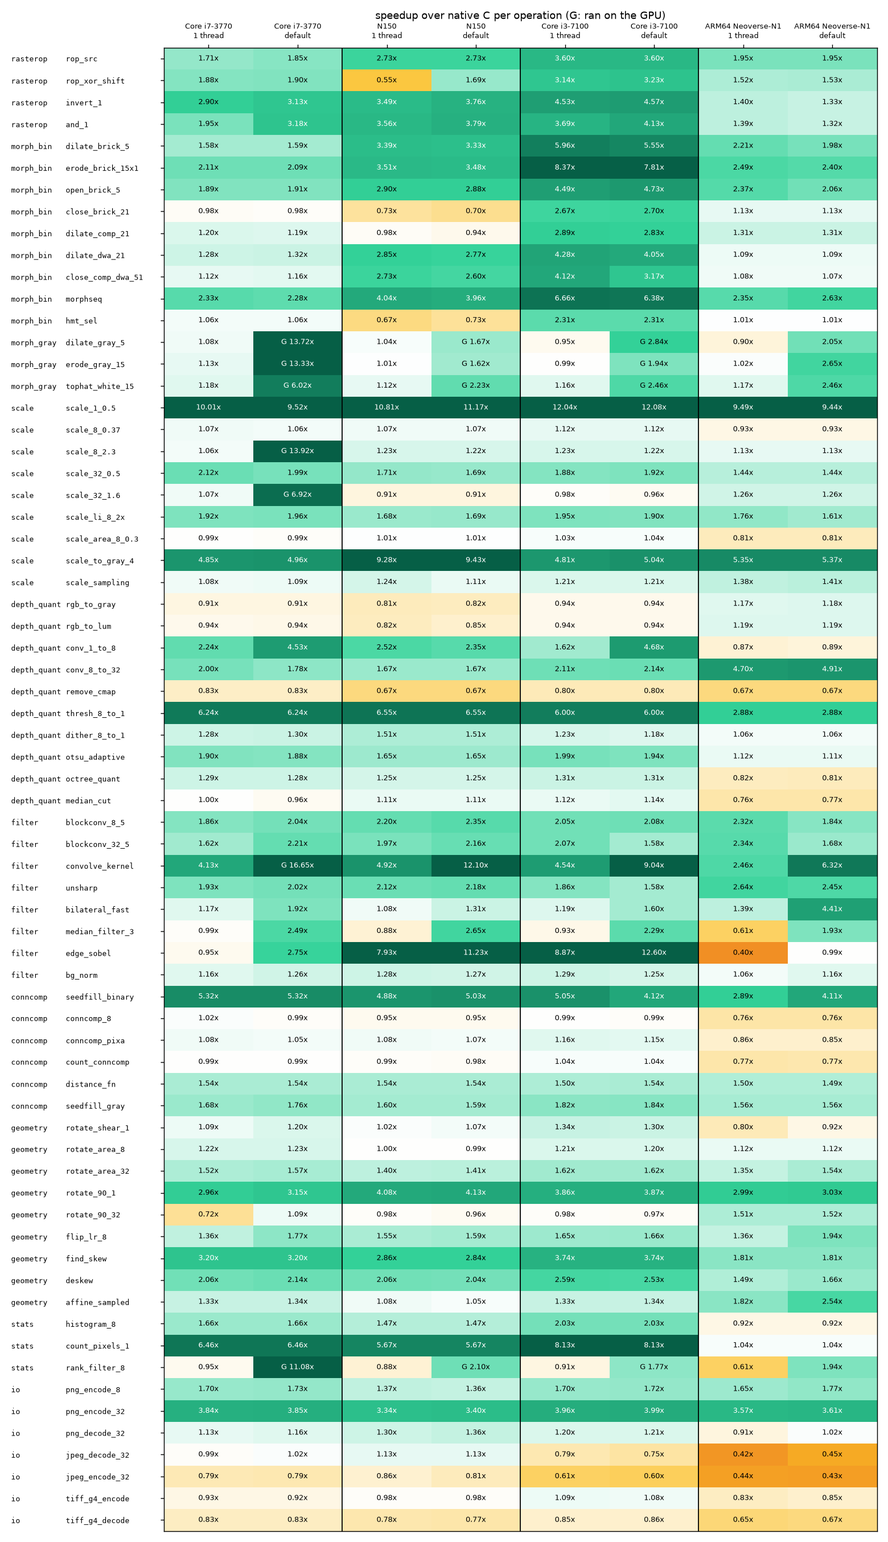
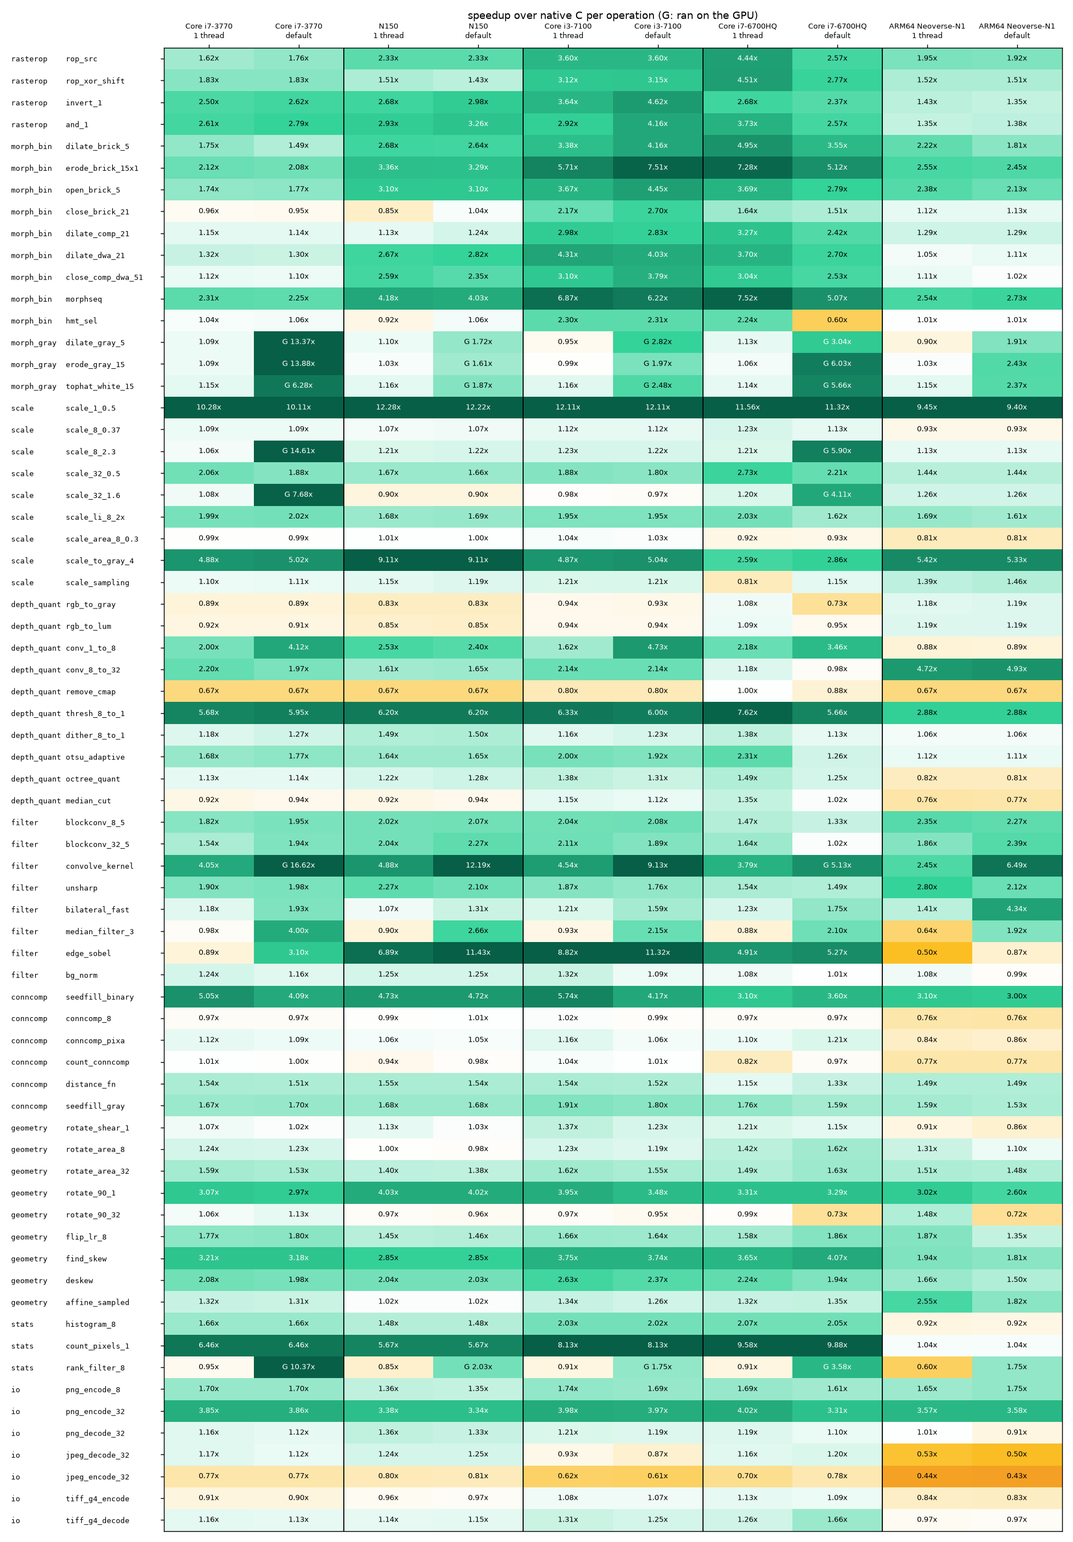
Benchmark results for 1.0.1 on five machines
Re-run of the benchmark with 1.0.1 on the four machines of the 1.0.0
results and a Core i7-6700HQ: the faster JPEG and G4 decoders take
tiff_g4_decode off the list of operations slower than the native
library on every machine, and jpeg_decode_32 off it on the x64 ones.

diff --git a/docs/benchmarks.md b/docs/benchmarks.md
@@ -17,91 +17,93 @@ each operation; above 1.00 the managed code is faster. Generated by `benchmarks/
 
 | CPU | GPU | OS | 1 thread | multithreaded | default (threads + GPU) |
 |---|---|---|---:|---:|---:|
-| Core i7-3770 | GTX 1070 | Microsoft Windows 10 Enterprise (10.0.18363, Build 18363) | 1.56x | 1.72x | 2.09x |
-| N150 | Intel Graphics | Microsoft Windows 11 Pro (10.0.26300, Build 26300) | 1.68x | 1.84x | 1.84x |
-| Core i3-7100 | Intel HD Graphics 630 | Microsoft Windows 10 Home (10.0.19045, Build 19045) | 1.98x | 2.04x | 2.15x |
-| ARM64 Neoverse-N1 | no GPU | Ubuntu 24.04.5 LTS (aarch64) | 1.33x | 1.49x | 1.51x |
+| Core i7-3770 | GTX 1070 | Microsoft Windows 10 Enterprise (10.0.18363, Build 18363) | 1.56x | 1.81x | 2.06x |
+| N150 | Intel Graphics | Microsoft Windows 11 Pro (10.0.26300, Build 26300) | 1.70x | 1.86x | 1.84x |
+| Core i3-7100 | Intel HD Graphics 630 | Microsoft Windows 10 Home (10.0.19045, Build 19045) | 1.95x | 2.11x | 2.14x |
+| Core i7-6700HQ | Quadro M3000M | Microsoft Windows 10 Pro (10.0.19045, Build 19045) | 1.91x | 2.13x | 1.99x |
+| ARM64 Neoverse-N1 | no GPU | Ubuntu 24.04.5 LTS (aarch64) | 1.37x | 1.49x | 1.47x |
 
 ## Where the managed code is slower
 
 Operations that are more than 10% slower than the native library with one thread:
 
-- **Core i7-3770**: `rotate_90_32` 0.72x, `jpeg_encode_32` 0.79x, `tiff_g4_decode` 0.83x, `remove_cmap` 0.83x
-- **N150**: `rop_xor_shift` 0.55x, `remove_cmap` 0.67x, `hmt_sel` 0.67x, `close_brick_21` 0.73x, `tiff_g4_decode` 0.78x, `rgb_to_gray` 0.81x, `rgb_to_lum` 0.82x, `jpeg_encode_32` 0.86x, `median_filter_3` 0.88x, `rank_filter_8` 0.88x
-- **Core i3-7100**: `jpeg_encode_32` 0.61x, `jpeg_decode_32` 0.79x, `remove_cmap` 0.80x, `tiff_g4_decode` 0.85x
-- **ARM64 Neoverse-N1**: `edge_sobel` 0.40x, `jpeg_decode_32` 0.42x, `jpeg_encode_32` 0.44x, `rank_filter_8` 0.61x, `median_filter_3` 0.61x, `tiff_g4_decode` 0.65x, `remove_cmap` 0.67x, `conncomp_8` 0.76x, `median_cut` 0.76x, `count_conncomp` 0.77x, `rotate_shear_1` 0.80x, `scale_area_8_0.3` 0.81x, `octree_quant` 0.82x, `tiff_g4_encode` 0.83x, `conncomp_pixa` 0.86x, `conv_1_to_8` 0.87x, `dilate_gray_5` 0.90x
+- **Core i7-3770**: `remove_cmap` 0.67x, `jpeg_encode_32` 0.77x, `edge_sobel` 0.89x, `rgb_to_gray` 0.89x
+- **N150**: `remove_cmap` 0.67x, `jpeg_encode_32` 0.80x, `rgb_to_gray` 0.83x, `close_brick_21` 0.85x, `rank_filter_8` 0.85x, `rgb_to_lum` 0.85x, `median_filter_3` 0.90x
+- **Core i3-7100**: `jpeg_encode_32` 0.62x, `remove_cmap` 0.80x
+- **Core i7-6700HQ**: `jpeg_encode_32` 0.70x, `scale_sampling` 0.81x, `count_conncomp` 0.82x, `median_filter_3` 0.88x
+- **ARM64 Neoverse-N1**: `jpeg_encode_32` 0.44x, `edge_sobel` 0.50x, `jpeg_decode_32` 0.53x, `rank_filter_8` 0.60x, `median_filter_3` 0.64x, `remove_cmap` 0.67x, `median_cut` 0.76x, `conncomp_8` 0.76x, `count_conncomp` 0.77x, `scale_area_8_0.3` 0.81x, `octree_quant` 0.82x, `conncomp_pixa` 0.84x, `tiff_g4_encode` 0.84x, `conv_1_to_8` 0.88x, `dilate_gray_5` 0.90x
 
 ## Operations
 
 ![operations](images/benchmark-operations.png)
 
-| operation | C function | Core i7-3770: native ms / 1 thread / default | N150: native ms / 1 thread / default | Core i3-7100: native ms / 1 thread / default | ARM64 Neoverse-N1: native ms / 1 thread / default |
-|---|---|---|---|---|---|
-| `rop_src` | `pixRasterop` | 0.159 / 1.71x / 1.85x | 0.142 / 2.73x / 2.73x | 0.173 / 3.60x / 3.60x | 0.152 / 1.95x / 1.95x |
-| `rop_xor_shift` | `pixRasterop` | 0.335 / 1.88x / 1.90x | 0.273 / 0.55x / 1.69x | 0.323 / 3.14x / 3.23x | 0.339 / 1.52x / 1.53x |
-| `invert_1` | `pixInvert` | 0.467 / 2.90x / 3.13x | 0.530 / 3.49x / 3.76x | 0.439 / 4.53x / 4.57x | 0.268 / 1.40x / 1.33x |
-| `and_1` | `pixAnd` | 0.483 / 1.95x / 3.18x | 0.588 / 3.56x / 3.79x | 0.483 / 3.69x / 4.13x | 0.283 / 1.39x / 1.32x |
-| `dilate_brick_5` | `pixDilateBrick` | 2.503 / 1.58x / 1.59x | 2.950 / 3.39x / 3.33x | 3.345 / 5.96x / 5.55x | 2.608 / 2.21x / 1.98x |
-| `erode_brick_15x1` | `pixErodeBrick` | 4.985 / 2.11x / 2.09x | 4.226 / 3.51x / 3.48x | 5.701 / 8.37x / 7.81x | 4.904 / 2.49x / 2.40x |
-| `open_brick_5` | `pixOpenBrick` | 4.601 / 1.89x / 1.91x | 3.833 / 2.90x / 2.88x | 4.620 / 4.49x / 4.73x | 5.186 / 2.37x / 2.06x |
-| `close_brick_21` | `pixCloseBrick` | 17.160 / 0.98x / 0.98x | 14.510 / 0.73x / 0.70x | 18.321 / 2.67x / 2.70x | 22.181 / 1.13x / 1.13x |
-| `dilate_comp_21` | `pixDilateCompBrick` | 5.919 / 1.20x / 1.19x | 5.556 / 0.98x / 0.94x | 5.268 / 2.89x / 2.83x | 6.738 / 1.31x / 1.31x |
-| `dilate_dwa_21` | `pixDilateBrickDwa` | 6.702 / 1.28x / 1.32x | 5.156 / 2.85x / 2.77x | 4.938 / 4.28x / 4.05x | 4.894 / 1.09x / 1.09x |
-| `close_comp_dwa_51` | `pixCloseCompBrickDwa` | 7.580 / 1.12x / 1.16x | 6.230 / 2.73x / 2.60x | 6.028 / 4.12x / 3.17x | 6.602 / 1.08x / 1.07x |
-| `morphseq` | `pixMorphSequence` | 23.340 / 2.33x / 2.28x | 18.987 / 4.04x / 3.96x | 23.548 / 6.66x / 6.38x | 24.326 / 2.35x / 2.63x |
-| `hmt_sel` | `pixHMT` | 2.517 / 1.06x / 1.06x | 2.315 / 0.67x / 0.73x | 2.762 / 2.31x / 2.31x | 2.560 / 1.01x / 1.01x |
-| `dilate_gray_5` | `pixDilateGray` | 8.821 / 1.08x / 13.72x (GPU) | 8.233 / 1.04x / 1.67x (GPU) | 7.000 / 0.95x / 2.84x (GPU) | 7.825 / 0.90x / 2.05x |
-| `erode_gray_15` | `pixErodeGray` | 9.582 / 1.13x / 13.33x (GPU) | 8.016 / 1.01x / 1.62x (GPU) | 7.336 / 0.99x / 1.94x (GPU) | 8.959 / 1.02x / 2.65x |
-| `tophat_white_15` | `pixTophat` | 20.445 / 1.18x / 6.02x (GPU) | 16.900 / 1.12x / 2.23x (GPU) | 15.763 / 1.16x / 2.46x (GPU) | 21.704 / 1.17x / 2.46x |
-| `scale_1_0.5` | `pixScale` | 4.285 / 10.01x / 9.52x | 4.368 / 10.81x / 11.17x | 3.913 / 12.04x / 12.08x | 3.710 / 9.49x / 9.44x |
-| `scale_8_0.37` | `pixScale` | 0.972 / 1.07x / 1.06x | 0.837 / 1.07x / 1.07x | 0.853 / 1.12x / 1.12x | 0.802 / 0.93x / 0.93x |
-| `scale_8_2.3` | `pixScale` | 7.098 / 1.06x / 13.92x (GPU) | 6.706 / 1.23x / 1.22x | 5.879 / 1.23x / 1.22x | 8.371 / 1.13x / 1.13x |
-| `scale_32_0.5` | `pixScale` | 1.819 / 2.12x / 1.99x | 1.422 / 1.71x / 1.69x | 1.416 / 1.88x / 1.92x | 1.441 / 1.44x / 1.44x |
-| `scale_32_1.6` | `pixScale` | 7.477 / 1.07x / 6.92x (GPU) | 6.668 / 0.91x / 0.91x | 5.923 / 0.98x / 0.96x | 8.101 / 1.26x / 1.26x |
-| `scale_li_8_2x` | `pixScaleGrayLI` | 0.402 / 1.92x / 1.96x | 0.398 / 1.68x / 1.69x | 0.362 / 1.95x / 1.90x | 0.411 / 1.76x / 1.61x |
-| `scale_area_8_0.3` | `pixScaleAreaMap` | 0.609 / 0.99x / 0.99x | 0.547 / 1.01x / 1.01x | 0.540 / 1.03x / 1.04x | 0.482 / 0.81x / 0.81x |
-| `scale_to_gray_4` | `pixScaleToGray4` | 0.892 / 4.85x / 4.96x | 1.679 / 9.28x / 9.43x | 0.721 / 4.81x / 5.04x | 1.642 / 5.35x / 5.37x |
-| `scale_sampling` | `pixScaleBySampling` | 0.098 / 1.08x / 1.09x | 0.112 / 1.24x / 1.11x | 0.085 / 1.21x / 1.21x | 0.130 / 1.38x / 1.41x |
-| `rgb_to_gray` | `pixConvertRGBToGray` | 0.780 / 0.91x / 0.91x | 0.548 / 0.81x / 0.82x | 0.627 / 0.94x / 0.94x | 0.737 / 1.17x / 1.18x |
-| `rgb_to_lum` | `pixConvertRGBToLuminance` | 0.781 / 0.94x / 0.94x | 0.548 / 0.82x / 0.85x | 0.627 / 0.94x / 0.94x | 0.737 / 1.19x / 1.19x |
-| `conv_1_to_8` | `pixConvert1To8` | 5.775 / 2.24x / 4.53x | 4.405 / 2.52x / 2.35x | 4.200 / 1.62x / 4.68x | 3.139 / 0.87x / 0.89x |
-| `conv_8_to_32` | `pixConvert8To32` | 0.222 / 2.00x / 1.78x | 0.211 / 1.67x / 1.67x | 0.171 / 2.11x / 2.14x | 0.216 / 4.70x / 4.91x |
-| `remove_cmap` | `pixRemoveColormap` | 0.005 / 0.83x / 0.83x | 0.004 / 0.67x / 0.67x | 0.004 / 0.80x / 0.80x | 0.004 / 0.67x / 0.67x |
-| `thresh_8_to_1` | `pixThresholdToBinary` | 0.131 / 6.24x / 6.24x | 0.131 / 6.55x / 6.55x | 0.114 / 6.00x / 6.00x | 0.141 / 2.88x / 2.88x |
-| `dither_8_to_1` | `pixDitherToBinary` | 1.315 / 1.28x / 1.30x | 1.260 / 1.51x / 1.51x | 1.098 / 1.23x / 1.18x | 1.099 / 1.06x / 1.06x |
-| `otsu_adaptive` | `pixOtsuAdaptiveThreshold` | 0.942 / 1.90x / 1.88x | 0.891 / 1.65x / 1.65x | 0.879 / 1.99x / 1.94x | 0.677 / 1.12x / 1.11x |
-| `octree_quant` | `pixOctreeColorQuant` | 7.969 / 1.29x / 1.28x | 6.904 / 1.25x / 1.25x | 6.413 / 1.31x / 1.31x | 5.892 / 0.82x / 0.81x |
-| `median_cut` | `pixMedianCutQuant` | 3.935 / 1.00x / 0.96x | 3.782 / 1.11x / 1.11x | 3.404 / 1.12x / 1.14x | 3.341 / 0.76x / 0.77x |
-| `blockconv_8_5` | `pixBlockconv` | 1.081 / 1.86x / 2.04x | 1.042 / 2.20x / 2.35x | 0.828 / 2.05x / 2.08x | 1.175 / 2.32x / 1.84x |
-| `blockconv_32_5` | `pixBlockconv` | 4.907 / 1.62x / 2.21x | 4.573 / 1.97x / 2.16x | 3.698 / 2.07x / 1.58x | 5.180 / 2.34x / 1.68x |
-| `convolve_kernel` | `pixConvolve` | 11.852 / 4.13x / 16.65x (GPU) | 11.257 / 4.92x / 12.10x | 10.888 / 4.54x / 9.04x | 12.923 / 2.46x / 6.32x |
-| `unsharp` | `pixUnsharpMasking` | 8.673 / 1.93x / 2.02x | 7.879 / 2.12x / 2.18x | 6.705 / 1.86x / 1.58x | 9.381 / 2.64x / 2.45x |
-| `bilateral_fast` | `pixBilateral` | 712.394 / 1.17x / 1.92x | 2076.011 / 1.08x / 1.31x | 657.803 / 1.19x / 1.60x | 221.435 / 1.39x / 4.41x |
-| `median_filter_3` | `pixMedianFilter` | 8.017 / 0.99x / 2.49x | 7.413 / 0.88x / 2.65x | 6.213 / 0.93x / 2.29x | 8.048 / 0.61x / 1.93x |
-| `edge_sobel` | `pixSobelEdgeFilter` | 1.964 / 0.95x / 2.75x | 1.808 / 7.93x / 11.23x | 1.676 / 8.87x / 12.60x | 1.040 / 0.40x / 0.99x |
-| `bg_norm` | `pixBackgroundNormSimple` | 2.181 / 1.16x / 1.26x | 1.919 / 1.28x / 1.27x | 1.709 / 1.29x / 1.25x | 2.339 / 1.06x / 1.16x |
-| `seedfill_binary` | `pixSeedfillBinary` | 3.658 / 5.32x / 5.32x | 4.866 / 4.88x / 5.03x | 3.088 / 5.05x / 4.12x | 2.946 / 2.89x / 4.11x |
-| `conncomp_8` | `pixConnComp` | 13.530 / 1.02x / 0.99x | 11.580 / 0.95x / 0.95x | 11.007 / 0.99x / 0.99x | 12.228 / 0.76x / 0.76x |
-| `conncomp_pixa` | `pixConnComp` | 18.336 / 1.08x / 1.05x | 16.219 / 1.08x / 1.07x | 16.858 / 1.16x / 1.15x | 16.675 / 0.86x / 0.85x |
-| `count_conncomp` | `pixCountConnComp` | 12.412 / 0.99x / 0.99x | 11.327 / 0.99x / 0.98x | 10.655 / 1.04x / 1.04x | 11.528 / 0.77x / 0.77x |
-| `distance_fn` | `pixDistanceFunction` | 35.679 / 1.54x / 1.54x | 38.120 / 1.54x / 1.54x | 31.998 / 1.50x / 1.54x | 39.088 / 1.50x / 1.49x |
-| `seedfill_gray` | `pixSeedfillGray` | 75.017 / 1.68x / 1.76x | 61.047 / 1.60x / 1.59x | 52.358 / 1.82x / 1.84x | 67.935 / 1.56x / 1.56x |
-| `rotate_shear_1` | `pixRotate` | 3.384 / 1.09x / 1.20x | 2.243 / 1.02x / 1.07x | 3.245 / 1.34x / 1.30x | 2.103 / 0.80x / 0.92x |
-| `rotate_area_8` | `pixRotate` | 1.864 / 1.22x / 1.23x | 1.660 / 1.00x / 0.99x | 1.588 / 1.21x / 1.20x | 1.869 / 1.12x / 1.12x |
-| `rotate_area_32` | `pixRotate` | 3.543 / 1.52x / 1.57x | 3.431 / 1.40x / 1.41x | 3.140 / 1.62x / 1.62x | 3.893 / 1.35x / 1.54x |
-| `rotate_90_1` | `pixRotate90` | 5.728 / 2.96x / 3.15x | 5.800 / 4.08x / 4.13x | 5.460 / 3.86x / 3.87x | 5.204 / 2.99x / 3.03x |
-| `rotate_90_32` | `pixRotate90` | 0.268 / 0.72x / 1.09x | 0.284 / 0.98x / 0.96x | 0.232 / 0.98x / 0.97x | 0.372 / 1.51x / 1.52x |
-| `flip_lr_8` | `pixFlipLR` | 0.273 / 1.36x / 1.77x | 0.268 / 1.55x / 1.59x | 0.223 / 1.65x / 1.66x | 0.322 / 1.36x / 1.94x |
-| `find_skew` | `pixFindSkew` | 8.569 / 3.20x / 3.20x | 7.435 / 2.86x / 2.84x | 7.474 / 3.74x / 3.74x | 7.959 / 1.81x / 1.81x |
-| `deskew` | `pixDeskew` | 10.947 / 2.06x / 2.14x | 9.483 / 2.06x / 2.04x | 9.760 / 2.59x / 2.53x | 9.457 / 1.49x / 1.66x |
-| `affine_sampled` | `pixAffineSampledPta` | 1.228 / 1.33x / 1.34x | 0.805 / 1.08x / 1.05x | 1.030 / 1.33x / 1.34x | 1.631 / 1.82x / 2.54x |
-| `histogram_8` | `pixGetGrayHistogram` | 0.519 / 1.66x / 1.66x | 0.569 / 1.47x / 1.47x | 0.580 / 2.03x / 2.03x | 0.335 / 0.92x / 0.92x |
-| `count_pixels_1` | `pixCountPixels` | 0.433 / 6.46x / 6.46x | 0.414 / 5.67x / 5.67x | 0.382 / 8.13x / 8.13x | 0.470 / 1.04x / 1.04x |
-| `rank_filter_8` | `pixRankFilterGray` | 9.414 / 0.95x / 11.08x (GPU) | 8.688 / 0.88x / 2.10x (GPU) | 7.242 / 0.91x / 1.77x (GPU) | 9.297 / 0.61x / 1.94x |
-| `png_encode_8` | `pixWriteMem` | 8.661 / 1.70x / 1.73x | 8.745 / 1.37x / 1.36x | 7.641 / 1.70x / 1.72x | 8.624 / 1.65x / 1.77x |
-| `png_encode_32` | `pixWriteMem` | 80.221 / 3.84x / 3.85x | 89.848 / 3.34x / 3.40x | 74.308 / 3.96x / 3.99x | 77.093 / 3.57x / 3.61x |
-| `png_decode_32` | `pixReadMem` | 4.831 / 1.13x / 1.16x | 5.904 / 1.30x / 1.36x | 4.449 / 1.20x / 1.21x | 4.958 / 0.91x / 1.02x |
-| `jpeg_decode_32` | `pixReadMem` | 2.764 / 0.99x / 1.02x | 2.893 / 1.13x / 1.13x | 1.920 / 0.79x / 0.75x | 1.556 / 0.42x / 0.45x |
-| `jpeg_encode_32` | `pixWriteMem` | 2.792 / 0.79x / 0.79x | 2.694 / 0.86x / 0.81x | 1.841 / 0.61x / 0.60x | 1.622 / 0.44x / 0.43x |
-| `tiff_g4_encode` | `pixWriteMem` | 13.154 / 0.93x / 0.92x | 12.391 / 0.98x / 0.98x | 12.193 / 1.09x / 1.08x | 12.155 / 0.83x / 0.85x |
-| `tiff_g4_decode` | `pixReadMem` | 6.479 / 0.83x / 0.83x | 6.287 / 0.78x / 0.77x | 5.893 / 0.85x / 0.86x | 5.652 / 0.65x / 0.67x |
+| operation | C function | Core i7-3770: native ms / 1 thread / default | N150: native ms / 1 thread / default | Core i3-7100: native ms / 1 thread / default | Core i7-6700HQ: native ms / 1 thread / default | ARM64 Neoverse-N1: native ms / 1 thread / default |
+|---|---|---|---|---|---|---|
+| `rop_src` | `pixRasterop` | 0.151 / 1.62x / 1.76x | 0.121 / 2.33x / 2.33x | 0.173 / 3.60x / 3.60x | 0.280 / 4.44x / 2.57x | 0.152 / 1.95x / 1.92x |
+| `rop_xor_shift` | `pixRasterop` | 0.326 / 1.83x / 1.83x | 0.280 / 1.51x / 1.43x | 0.321 / 3.12x / 3.15x | 0.609 / 4.51x / 2.77x | 0.339 / 1.52x / 1.51x |
+| `invert_1` | `pixInvert` | 0.375 / 2.50x / 2.62x | 0.423 / 2.68x / 2.98x | 0.444 / 3.64x / 4.62x | 1.206 / 2.68x / 2.37x | 0.278 / 1.43x / 1.35x |
+| `and_1` | `pixAnd` | 0.404 / 2.61x / 2.79x | 0.472 / 2.93x / 3.26x | 0.487 / 2.92x / 4.16x | 1.411 / 3.73x / 2.57x | 0.281 / 1.35x / 1.38x |
+| `dilate_brick_5` | `pixDilateBrick` | 2.338 / 1.75x / 1.49x | 2.335 / 2.68x / 2.64x | 2.680 / 3.38x / 4.16x | 10.002 / 4.95x / 3.55x | 2.621 / 2.22x / 1.81x |
+| `erode_brick_15x1` | `pixErodeBrick` | 4.830 / 2.12x / 2.08x | 3.990 / 3.36x / 3.29x | 5.630 / 5.71x / 7.51x | 13.541 / 7.28x / 5.12x | 4.947 / 2.55x / 2.45x |
+| `open_brick_5` | `pixOpenBrick` | 4.160 / 1.74x / 1.77x | 4.104 / 3.10x / 3.10x | 4.629 / 3.67x / 4.45x | 12.342 / 3.69x / 2.79x | 5.195 / 2.38x / 2.13x |
+| `close_brick_21` | `pixCloseBrick` | 16.903 / 0.96x / 0.95x | 15.634 / 0.85x / 1.04x | 18.337 / 2.17x / 2.70x | 41.354 / 1.64x / 1.51x | 22.194 / 1.12x / 1.13x |
+| `dilate_comp_21` | `pixDilateCompBrick` | 5.683 / 1.15x / 1.14x | 5.630 / 1.13x / 1.24x | 5.311 / 2.98x / 2.83x | 12.700 / 3.27x / 2.42x | 6.636 / 1.29x / 1.29x |
+| `dilate_dwa_21` | `pixDilateBrickDwa` | 6.610 / 1.32x / 1.30x | 5.159 / 2.67x / 2.82x | 4.951 / 4.31x / 4.03x | 9.432 / 3.70x / 2.70x | 4.837 / 1.05x / 1.11x |
+| `close_comp_dwa_51` | `pixCloseCompBrickDwa` | 7.385 / 1.12x / 1.10x | 6.162 / 2.59x / 2.35x | 6.171 / 3.10x / 3.79x | 14.729 / 3.04x / 2.53x | 6.571 / 1.11x / 1.02x |
+| `morphseq` | `pixMorphSequence` | 23.153 / 2.31x / 2.25x | 19.834 / 4.18x / 4.03x | 23.967 / 6.87x / 6.22x | 76.324 / 7.52x / 5.07x | 24.208 / 2.54x / 2.73x |
+| `hmt_sel` | `pixHMT` | 2.480 / 1.04x / 1.06x | 2.398 / 0.92x / 1.06x | 2.756 / 2.30x / 2.31x | 6.728 / 2.24x / 0.60x | 2.573 / 1.01x / 1.01x |
+| `dilate_gray_5` | `pixDilateGray` | 8.689 / 1.09x / 13.37x (GPU) | 8.532 / 1.10x / 1.72x (GPU) | 7.069 / 0.95x / 2.82x (GPU) | 16.266 / 1.13x / 3.04x (GPU) | 7.780 / 0.90x / 1.91x |
+| `erode_gray_15` | `pixErodeGray` | 9.436 / 1.09x / 13.88x (GPU) | 8.016 / 1.03x / 1.61x (GPU) | 7.374 / 0.99x / 1.97x (GPU) | 14.552 / 1.06x / 6.03x (GPU) | 8.928 / 1.03x / 2.43x |
+| `tophat_white_15` | `pixTophat` | 20.288 / 1.15x / 6.28x (GPU) | 16.784 / 1.16x / 1.87x (GPU) | 15.859 / 1.16x / 2.48x (GPU) | 28.247 / 1.14x / 5.66x (GPU) | 21.386 / 1.15x / 2.37x |
+| `scale_1_0.5` | `pixScale` | 4.298 / 10.28x / 10.11x | 4.803 / 12.28x / 12.22x | 3.912 / 12.11x / 12.11x | 6.441 / 11.56x / 11.32x | 3.703 / 9.45x / 9.40x |
+| `scale_8_0.37` | `pixScale` | 0.972 / 1.09x / 1.09x | 0.837 / 1.07x / 1.07x | 0.853 / 1.12x / 1.12x | 1.421 / 1.23x / 1.13x | 0.803 / 0.93x / 0.93x |
+| `scale_8_2.3` | `pixScale` | 7.072 / 1.06x / 14.61x (GPU) | 6.685 / 1.21x / 1.22x | 5.891 / 1.23x / 1.22x | 8.847 / 1.21x / 5.90x (GPU) | 8.359 / 1.13x / 1.13x |
+| `scale_32_0.5` | `pixScale` | 1.735 / 2.06x / 1.88x | 1.371 / 1.67x / 1.66x | 1.414 / 1.88x / 1.80x | 3.136 / 2.73x / 2.21x | 1.440 / 1.44x / 1.44x |
+| `scale_32_1.6` | `pixScale` | 7.399 / 1.08x / 7.68x (GPU) | 6.664 / 0.90x / 0.90x | 5.955 / 0.98x / 0.97x | 11.082 / 1.20x / 4.11x (GPU) | 8.095 / 1.26x / 1.26x |
+| `scale_li_8_2x` | `pixScaleGrayLI` | 0.392 / 1.99x / 2.02x | 0.398 / 1.68x / 1.69x | 0.362 / 1.95x / 1.95x | 0.757 / 2.03x / 1.62x | 0.413 / 1.69x / 1.61x |
+| `scale_area_8_0.3` | `pixScaleAreaMap` | 0.608 / 0.99x / 0.99x | 0.547 / 1.01x / 1.00x | 0.540 / 1.04x / 1.03x | 0.829 / 0.92x / 0.93x | 0.483 / 0.81x / 0.81x |
+| `scale_to_gray_4` | `pixScaleToGray4` | 0.893 / 4.88x / 5.02x | 1.677 / 9.11x / 9.11x | 0.721 / 4.87x / 5.04x | 1.221 / 2.59x / 2.86x | 1.663 / 5.42x / 5.33x |
+| `scale_sampling` | `pixScaleBySampling` | 0.097 / 1.10x / 1.11x | 0.112 / 1.15x / 1.19x | 0.085 / 1.21x / 1.21x | 0.208 / 0.81x / 1.15x | 0.131 / 1.39x / 1.46x |
+| `rgb_to_gray` | `pixConvertRGBToGray` | 0.760 / 0.89x / 0.89x | 0.548 / 0.83x / 0.83x | 0.627 / 0.94x / 0.93x | 1.216 / 1.08x / 0.73x | 0.737 / 1.18x / 1.19x |
+| `rgb_to_lum` | `pixConvertRGBToLuminance` | 0.760 / 0.92x / 0.91x | 0.548 / 0.85x / 0.85x | 0.626 / 0.94x / 0.94x | 1.158 / 1.09x / 0.95x | 0.737 / 1.19x / 1.19x |
+| `conv_1_to_8` | `pixConvert1To8` | 5.095 / 2.00x / 4.12x | 4.392 / 2.53x / 2.40x | 4.206 / 1.62x / 4.73x | 10.889 / 2.18x / 3.46x | 3.122 / 0.88x / 0.89x |
+| `conv_8_to_32` | `pixConvert8To32` | 0.211 / 2.20x / 1.97x | 0.211 / 1.61x / 1.65x | 0.171 / 2.14x / 2.14x | 0.378 / 1.18x / 0.98x | 0.217 / 4.72x / 4.93x |
+| `remove_cmap` | `pixRemoveColormap` | 0.004 / 0.67x / 0.67x | 0.004 / 0.67x / 0.67x | 0.004 / 0.80x / 0.80x | 0.007 / 1.00x / 0.88x | 0.004 / 0.67x / 0.67x |
+| `thresh_8_to_1` | `pixThresholdToBinary` | 0.125 / 5.68x / 5.95x | 0.124 / 6.20x / 6.20x | 0.114 / 6.33x / 6.00x | 0.198 / 7.62x / 5.66x | 0.141 / 2.88x / 2.88x |
+| `dither_8_to_1` | `pixDitherToBinary` | 1.234 / 1.18x / 1.27x | 1.257 / 1.49x / 1.50x | 1.093 / 1.16x / 1.23x | 1.742 / 1.38x / 1.13x | 1.098 / 1.06x / 1.06x |
+| `otsu_adaptive` | `pixOtsuAdaptiveThreshold` | 0.873 / 1.68x / 1.77x | 0.891 / 1.64x / 1.65x | 0.880 / 2.00x / 1.92x | 1.671 / 2.31x / 1.26x | 0.679 / 1.12x / 1.11x |
+| `octree_quant` | `pixOctreeColorQuant` | 6.835 / 1.13x / 1.14x | 6.776 / 1.22x / 1.28x | 6.455 / 1.38x / 1.31x | 16.723 / 1.49x / 1.25x | 5.925 / 0.82x / 0.81x |
+| `median_cut` | `pixMedianCutQuant` | 3.681 / 0.92x / 0.94x | 3.198 / 0.92x / 0.94x | 3.401 / 1.15x / 1.12x | 6.435 / 1.35x / 1.02x | 3.322 / 0.76x / 0.77x |
+| `blockconv_8_5` | `pixBlockconv` | 1.011 / 1.82x / 1.95x | 0.908 / 2.02x / 2.07x | 0.828 / 2.04x / 2.08x | 1.474 / 1.47x / 1.33x | 1.174 / 2.35x / 2.27x |
+| `blockconv_32_5` | `pixBlockconv` | 4.658 / 1.54x / 1.94x | 4.716 / 2.04x / 2.27x | 3.692 / 2.11x / 1.89x | 8.189 / 1.64x / 1.02x | 5.186 / 1.86x / 2.39x |
+| `convolve_kernel` | `pixConvolve` | 11.837 / 4.05x / 16.62x (GPU) | 11.254 / 4.88x / 12.19x | 10.881 / 4.54x / 9.13x | 18.209 / 3.79x / 5.13x (GPU) | 12.912 / 2.45x / 6.49x |
+| `unsharp` | `pixUnsharpMasking` | 8.383 / 1.90x / 1.98x | 7.914 / 2.27x / 2.10x | 6.673 / 1.87x / 1.76x | 14.807 / 1.54x / 1.49x | 9.381 / 2.80x / 2.12x |
+| `bilateral_fast` | `pixBilateral` | 705.635 / 1.18x / 1.93x | 2070.049 / 1.07x / 1.31x | 658.367 / 1.21x / 1.59x | 978.579 / 1.23x / 1.75x | 221.252 / 1.41x / 4.34x |
+| `median_filter_3` | `pixMedianFilter` | 7.965 / 0.98x / 4.00x | 7.561 / 0.90x / 2.66x | 6.201 / 0.93x / 2.15x | 9.242 / 0.88x / 2.10x | 8.045 / 0.64x / 1.92x |
+| `edge_sobel` | `pixSobelEdgeFilter` | 1.838 / 0.89x / 3.10x | 1.818 / 6.89x / 11.43x | 1.676 / 8.82x / 11.32x | 2.545 / 4.91x / 5.27x | 1.038 / 0.50x / 0.87x |
+| `bg_norm` | `pixBackgroundNormSimple` | 2.128 / 1.24x / 1.16x | 1.946 / 1.25x / 1.25x | 1.706 / 1.32x / 1.09x | 3.430 / 1.08x / 1.01x | 2.162 / 1.08x / 0.99x |
+| `seedfill_binary` | `pixSeedfillBinary` | 3.314 / 5.05x / 4.09x | 4.776 / 4.73x / 4.72x | 3.476 / 5.74x / 4.17x | 5.120 / 3.10x / 3.60x | 3.027 / 3.10x / 3.00x |
+| `conncomp_8` | `pixConnComp` | 12.924 / 0.97x / 0.97x | 12.166 / 0.99x / 1.01x | 11.332 / 1.02x / 0.99x | 19.474 / 0.97x / 0.97x | 12.196 / 0.76x / 0.76x |
+| `conncomp_pixa` | `pixConnComp` | 18.709 / 1.12x / 1.09x | 16.239 / 1.06x / 1.05x | 16.944 / 1.16x / 1.06x | 31.154 / 1.10x / 1.21x | 16.538 / 0.84x / 0.86x |
+| `count_conncomp` | `pixCountConnComp` | 12.491 / 1.01x / 1.00x | 11.271 / 0.94x / 0.98x | 10.670 / 1.04x / 1.01x | 16.738 / 0.82x / 0.97x | 11.506 / 0.77x / 0.77x |
+| `distance_fn` | `pixDistanceFunction` | 35.965 / 1.54x / 1.51x | 38.188 / 1.55x / 1.54x | 32.154 / 1.54x / 1.52x | 49.992 / 1.15x / 1.33x | 39.053 / 1.49x / 1.49x |
+| `seedfill_gray` | `pixSeedfillGray` | 73.018 / 1.67x / 1.70x | 64.268 / 1.68x / 1.68x | 52.604 / 1.91x / 1.80x | 82.740 / 1.76x / 1.59x | 68.138 / 1.59x / 1.53x |
+| `rotate_shear_1` | `pixRotate` | 3.012 / 1.07x / 1.02x | 2.245 / 1.13x / 1.03x | 3.279 / 1.37x / 1.23x | 7.049 / 1.21x / 1.15x | 2.119 / 0.91x / 0.86x |
+| `rotate_area_8` | `pixRotate` | 1.895 / 1.24x / 1.23x | 1.669 / 1.00x / 0.98x | 1.587 / 1.23x / 1.19x | 3.098 / 1.42x / 1.62x | 1.870 / 1.31x / 1.10x |
+| `rotate_area_32` | `pixRotate` | 3.558 / 1.59x / 1.53x | 3.448 / 1.40x / 1.38x | 3.137 / 1.62x / 1.55x | 5.648 / 1.49x / 1.63x | 3.900 / 1.51x / 1.48x |
+| `rotate_90_1` | `pixRotate90` | 5.690 / 3.07x / 2.97x | 5.814 / 4.03x / 4.02x | 5.450 / 3.95x / 3.48x | 13.321 / 3.31x / 3.29x | 5.209 / 3.02x / 2.60x |
+| `rotate_90_32` | `pixRotate90` | 0.268 / 1.06x / 1.13x | 0.282 / 0.97x / 0.96x | 0.228 / 0.97x / 0.95x | 0.610 / 0.99x / 0.73x | 0.372 / 1.48x / 0.72x |
+| `flip_lr_8` | `pixFlipLR` | 0.273 / 1.77x / 1.80x | 0.268 / 1.45x / 1.46x | 0.222 / 1.66x / 1.64x | 0.487 / 1.58x / 1.86x | 0.319 / 1.87x / 1.35x |
+| `find_skew` | `pixFindSkew` | 8.556 / 3.21x / 3.18x | 7.471 / 2.85x / 2.85x | 7.442 / 3.75x / 3.74x | 12.817 / 3.65x / 4.07x | 7.926 / 1.94x / 1.81x |
+| `deskew` | `pixDeskew` | 10.623 / 2.08x / 1.98x | 9.252 / 2.04x / 2.03x | 9.902 / 2.63x / 2.37x | 20.850 / 2.24x / 1.94x | 9.425 / 1.66x / 1.50x |
+| `affine_sampled` | `pixAffineSampledPta` | 1.228 / 1.32x / 1.31x | 0.788 / 1.02x / 1.02x | 1.028 / 1.34x / 1.26x | 1.614 / 1.32x / 1.35x | 1.635 / 2.55x / 1.82x |
+| `histogram_8` | `pixGetGrayHistogram` | 0.519 / 1.66x / 1.66x | 0.570 / 1.48x / 1.48x | 0.580 / 2.03x / 2.02x | 0.862 / 2.07x / 2.05x | 0.334 / 0.92x / 0.92x |
+| `count_pixels_1` | `pixCountPixels` | 0.433 / 6.46x / 6.46x | 0.414 / 5.67x / 5.67x | 0.382 / 8.13x / 8.13x | 0.632 / 9.58x / 9.88x | 0.471 / 1.04x / 1.04x |
+| `rank_filter_8` | `pixRankFilterGray` | 9.455 / 0.95x / 10.37x (GPU) | 8.451 / 0.85x / 2.03x (GPU) | 7.242 / 0.91x / 1.75x (GPU) | 10.905 / 0.91x / 3.58x (GPU) | 9.310 / 0.60x / 1.75x |
+| `png_encode_8` | `pixWriteMem` | 8.625 / 1.70x / 1.70x | 8.748 / 1.36x / 1.35x | 7.678 / 1.74x / 1.69x | 17.007 / 1.69x / 1.61x | 8.608 / 1.65x / 1.75x |
+| `png_encode_32` | `pixWriteMem` | 80.524 / 3.85x / 3.86x | 89.581 / 3.38x / 3.34x | 74.327 / 3.98x / 3.97x | 156.749 / 4.02x / 3.31x | 76.957 / 3.57x / 3.58x |
+| `png_decode_32` | `pixReadMem` | 4.807 / 1.16x / 1.12x | 5.883 / 1.36x / 1.33x | 4.442 / 1.21x / 1.19x | 8.367 / 1.19x / 1.10x | 4.959 / 1.01x / 0.91x |
+| `jpeg_decode_32` | `pixReadMem` | 2.732 / 1.17x / 1.12x | 2.700 / 1.24x / 1.25x | 1.925 / 0.93x / 0.87x | 4.745 / 1.16x / 1.20x | 1.554 / 0.53x / 0.50x |
+| `jpeg_encode_32` | `pixWriteMem` | 2.776 / 0.77x / 0.77x | 2.530 / 0.80x / 0.81x | 1.864 / 0.62x / 0.61x | 4.077 / 0.70x / 0.78x | 1.621 / 0.44x / 0.43x |
+| `tiff_g4_encode` | `pixWriteMem` | 12.866 / 0.91x / 0.90x | 12.278 / 0.96x / 0.97x | 12.246 / 1.08x / 1.07x | 22.954 / 1.13x / 1.09x | 12.146 / 0.84x / 0.83x |
+| `tiff_g4_decode` | `pixReadMem` | 6.211 / 1.16x / 1.13x | 6.257 / 1.14x / 1.15x | 5.945 / 1.31x / 1.25x | 12.245 / 1.26x / 1.66x | 5.563 / 0.97x / 0.97x |

diff --git a/README.md b/README.md
@@ -134,8 +134,8 @@ regular Release build of Leptonica 1.87.0 (MSVC with the codecs from vcpkg on Wi
 the system codecs on Linux), running on one thread as it does.
 
 These are synthetic numbers for single operations, not a promise for every workload: most
-operations are faster than in C, and some are slower, the JPEG codec and the TIFF G4 decoder in
-particular, and more of them on ARM64. Every operation on every machine is listed in
+operations are faster than in C, and some are slower, the JPEG encoder in particular, and more
+of them on ARM64. Every operation on every machine is listed in
 [docs/benchmarks.md](docs/benchmarks.md), including the slower ones; the benchmark programs
 are in [benchmarks](benchmarks).
 
